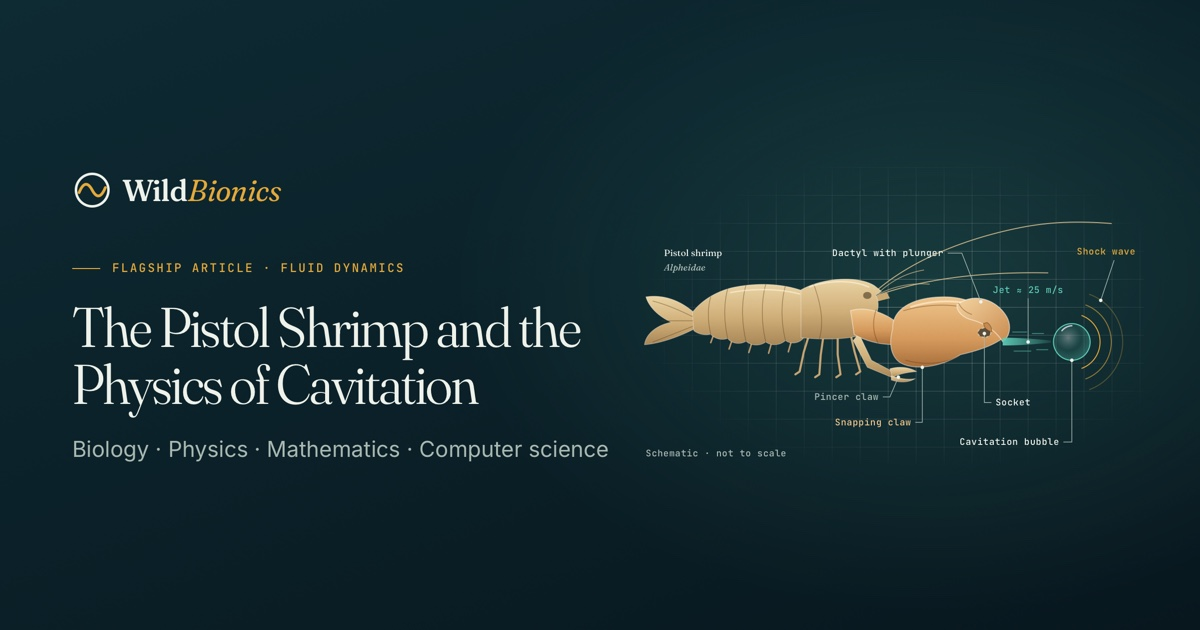
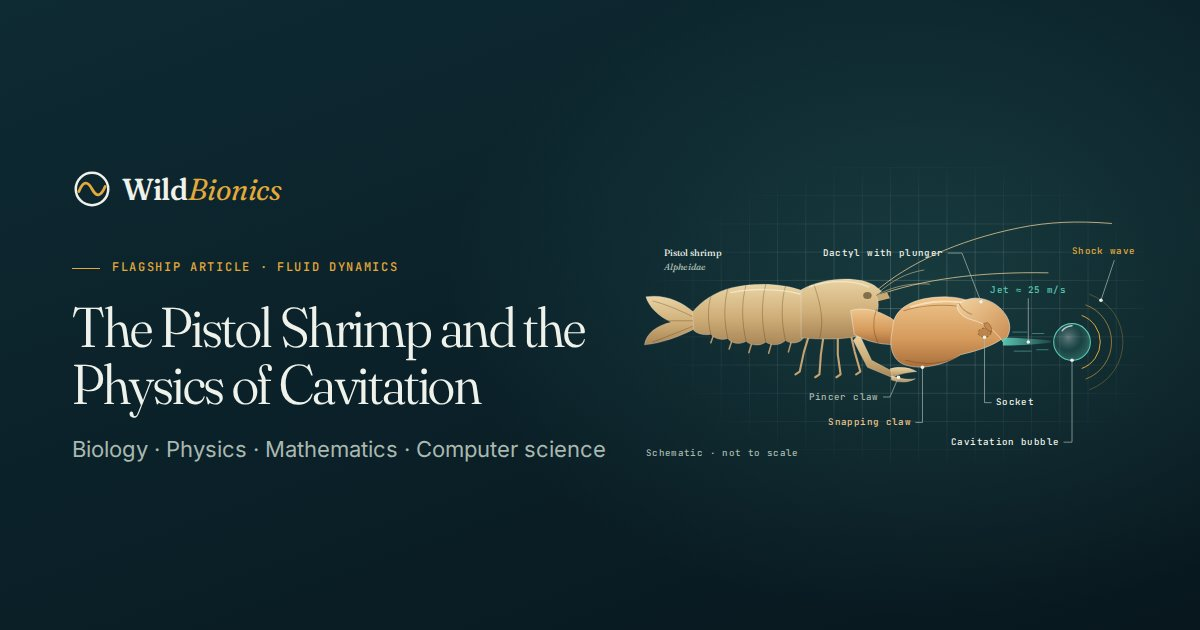
Figures: fix label collisions, 9 px labels on phones, socket, accessible names
Review findings, fixed with the figures skill loop (rendered EN + DE at
390 and 1440 px with Playwright, overlap/clipping measured per label):
- vdw.svg (gecko Fig. 2): "Intimate contact" collided with "10 nm: 37,000×
  weaker" on phones – zone label moved up; room for axis titles
- bernoulli.svg: the curve crossed the vapour-pressure label and the jet
  marker cut two labels – shorter label right of the crossing, marker
  starts below the labels; x-axis title clear of the ticks; real minus
- cavitation.svg: bubble snapshots now follow the R(t) curve (76/100/77/
  26 % instead of 41/100/59/16 %), guides end on the curve; "Flash &
  shock wave" wrapped inside the viewBox (it overflowed in German)
- claw.svg: the callout dot in the dark socket read as an eye – socket
  drawn as a recess in the shell colour, dot on its rim; pistol shrimp
  OG images re-rendered (1200×630, 52 KB each instead of 107 KB)
- gecko.svg: tail tip no longer touches the "not to scale" note
- Phone labels were 7.3–7.8 px – now ≥ ~9 px for every figure class
  (claw/gecko 18 px, fig/cav 15 px, lens 13.5 px, hero ticks 18 px)
- All 9 SVGs: title is the accessible name, the long description is
  aria-describedby (was part of the name); check_content.rb enforces it
- Figures/design skills: effective-size formula, viewBox margin, minus
  sign, socket and snapshot pitfalls, aria pattern

Claude-Session: https://claude.ai/code/session_01PEgCUqdNuQo3Rf5VVnReus

diff --git a/assets/css/main.css b/assets/css/main.css
@@ -538,6 +538,8 @@ var {
 .hero-svg, .lens-svg, .cav-svg { width: 100%; height: auto; overflow: visible; }
 .lens-svg { overflow: hidden; }
 .lens-svg .label { font-size: 11.5px; }
+.claw-svg .label-tick, .gecko-svg .label-tick { font-size: 12px; }   /* "not to scale" note ≥ 9 px */
+.hero-svg .label-tick { font-size: 11px; }
 
 .label {
   font-family: var(--font-mono);
@@ -1117,7 +1119,7 @@ var {
 .claw-svg .dactyl { fill: url(#shrimp-finger); stroke: rgba(255, 255, 255, 0.55); stroke-width: 1; }
 .claw-svg .plunger { fill: #c58a4f; stroke: rgba(90, 50, 15, 0.5); stroke-width: 0.8; }
 .claw-svg .claw-shine { fill: none; stroke: rgba(255, 244, 222, 0.6); stroke-width: 2; stroke-linecap: round; }
-.claw-svg .socket { fill: rgba(8, 23, 30, 0.6); stroke: rgba(255, 255, 255, 0.55); stroke-dasharray: 2.5 2.5; }
+.claw-svg .socket { fill: rgba(110, 60, 20, 0.28); stroke: rgba(90, 50, 15, 0.6); stroke-dasharray: 2.5 2.5; }   /* a recess in the shell, not a dark "pupil"; callout dot on its rim */
 .claw-svg .jet { fill: url(#claw-jet); }
 .claw-svg .speed { fill: none; stroke: var(--signal); stroke-width: 1.2; stroke-linecap: round; opacity: 0.6; }
 .claw-svg .bubble { fill: url(#claw-bubble); stroke: var(--signal); stroke-width: 1.5; }
@@ -1490,10 +1492,12 @@ a.cite:hover { text-decoration: underline; }
   .key-facts { padding: 22px 20px; }
   .graph-tags dl > div { grid-template-columns: minmax(0, 1fr); gap: 6px; }
   .formula--steps { font-size: 1.05rem; }
-  .claw-svg .label { font-size: 15px; }
-  .gecko-svg .label { font-size: 15px; }
+  /* figure labels: at least 9 px on a 390 px phone (font-size × figure scale) */
+  .claw-svg .label, .gecko-svg .label { font-size: 18px; }
   .fig-svg .label { font-size: 15px; }
-  .fig-svg .label-tick { font-size: 14px; }
+  .fig-svg .label-tick { font-size: 15px; }
+  .cav-svg .label { font-size: 15px; }
+  .lens-svg .label { font-size: 13.5px; }
 }
 
 /* ==========================================================================
@@ -1980,7 +1984,7 @@ a.cite:hover { text-decoration: underline; }
   .disciplines ul { gap: 2px 20px; }
   .disciplines li { font-size: 1.15rem; }
   .hero-svg .label { font-size: 18px; }
-  .hero-svg .label-tick { font-size: 15px; }
+  .hero-svg .label-tick { font-size: 18px; }
   .lens__tab-index { display: none; }
   .lens__tabs { flex-wrap: wrap; column-gap: 4px; overflow: visible; }
 }

diff --git a/.github/scripts/check_content.rb b/.github/scripts/check_content.rb
@@ -108,6 +108,8 @@ Dir["_includes/svg/*.svg"].sort.each do |f|
   s = File.read(f)
   errors << "#{f}: must start with {%- include i18n.html -%}" unless s.start_with?("{%- include i18n.html -%}")
   errors << "#{f}: <svg> needs role=\"img\" and aria-labelledby" unless s.match?(/<svg[^>]*role="img"[^>]*aria-labelledby=/m)
+  # the title is the accessible name, the description is read as description – not both as the name
+  errors << "#{f}: use aria-labelledby=\"x-title\" aria-describedby=\"x-desc\"" unless s.match?(/<svg[^>]*aria-describedby="[\w-]+-desc"/m)
   %w[title desc].each { |tag| errors << "#{f}: missing <#{tag}>" unless s.include?("<#{tag} ") }
   warnings << "#{f}: hard-coded text in <text> (use _data/i18n.yml)" if s.match?(/<text[^>]*>[A-Za-zÄÖÜäöü]{4,}[^{<]*<\/text>/)
 end

diff --git a/plugins/wildbionics/skills/wildbionics-figures/SKILL.md b/plugins/wildbionics/skills/wildbionics-figures/SKILL.md
@@ -36,13 +36,22 @@ Other good examples: `hero-echolocation.svg` (scene + measured quantities + inse
 5. **Labels that help.** Short, from `_data/i18n.yml` (EN + DE, German terms per the glossary),
    callouts with a leader line and a dot that sits *on* the element meant. No overlaps with
    each other, with shapes or with other leader lines; nothing clipped at the edge; readable on
-   a phone (roughly ≥ 9 px effective size – enlarge labels in the ≤ 600 px media query).
-6. **Accessible.** `role="img"` with bilingual `<title>` and `<desc>` that describe the concept,
+   a phone: ≥ 9 px effective size = CSS font-size × (rendered width ÷ viewBox width); enlarge
+   labels per figure class in the ≤ 600 px media query and leave viewBox margin for the bigger
+   phone labels (rotated axis titles, x-axis title below the tick numbers). Values from a formula
+   use a real minus sign (−100, not -100).
+6. **Accessible.** `role="img"`, `aria-labelledby="<id>-title" aria-describedby="<id>-desc"` (the
+   title is the name, the long description stays a description – `check_content.rb` enforces it),
+   with bilingual `<title>` and `<desc>` that describe the concept,
    not just the objects; enough contrast on dark and light surfaces; never encode meaning by
    colour alone (add shape, dash pattern or label).
 
 ### Pitfalls seen before – check for them explicitly
-- Dots or dark shapes that read as eyes or faces (a hinge dot made the claw look like a head).
+- Dots or dark shapes that read as eyes or faces (a hinge dot made the claw look like a head; a
+  callout dot in the middle of the dark socket oval read as a pupil – callout dots go on the rim,
+  recesses are drawn in the shell colour, not dark).
+- Snapshots that contradict the plot next to them (bubble sizes must follow the R(t) curve;
+  guide lines end on the curve).
 - Abstract fragments without context (the first claw figure).
 - Proportions that hide the story (the snapping claw was too small to be the obvious "weapon").
 - Hard, angular artefacts on organic shapes (a step in the claw outline).

diff --git a/plugins/wildbionics/skills/wildbionics-design/SKILL.md b/plugins/wildbionics/skills/wildbionics-design/SKILL.md
@@ -58,7 +58,8 @@ text.
 - Everything works without JavaScript: tabs degrade to stacked panels, the graph to a list.
 - Respect `prefers-reduced-motion`; animations are decorative only.
 - Interactive widgets follow WAI-ARIA patterns (tabs with arrow keys, buttons with `aria-pressed`/labels).
-- SVG figures: `role="img"`, `<title>`, `<desc>` in the page language.
+- SVG figures: `role="img"`, `aria-labelledby` → `<title>` and `aria-describedby` → `<desc>`, both in
+  the page language.
 
 ## Metadata (layouts handle it – keep it that way)
 
